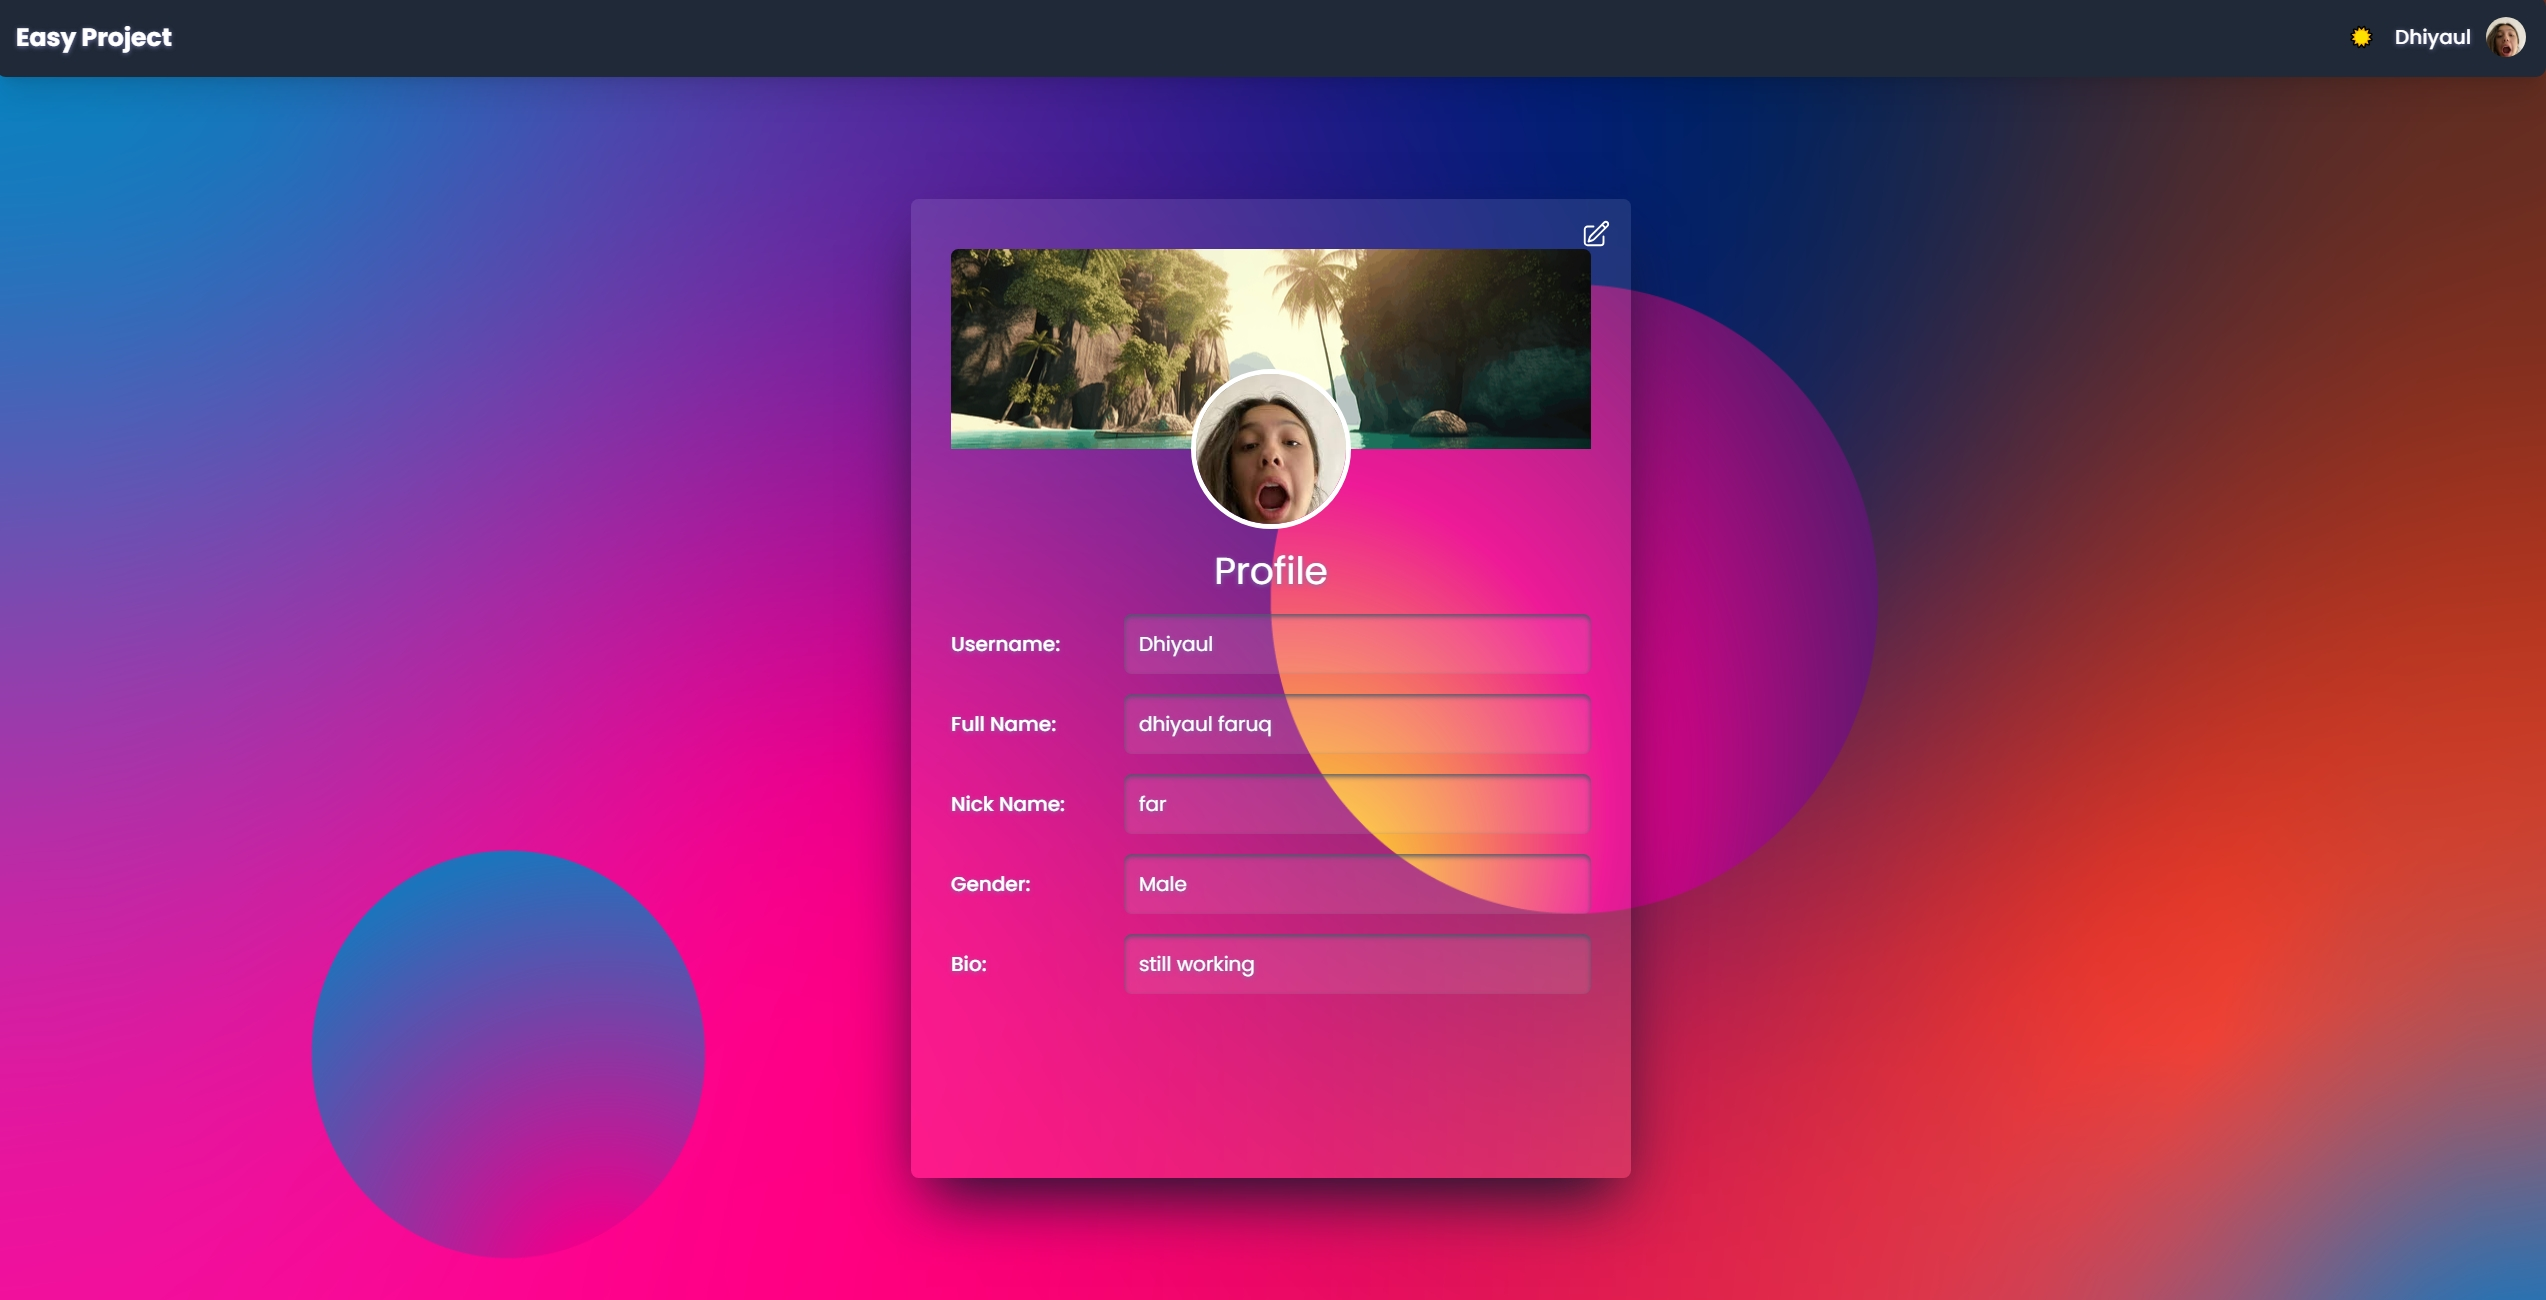
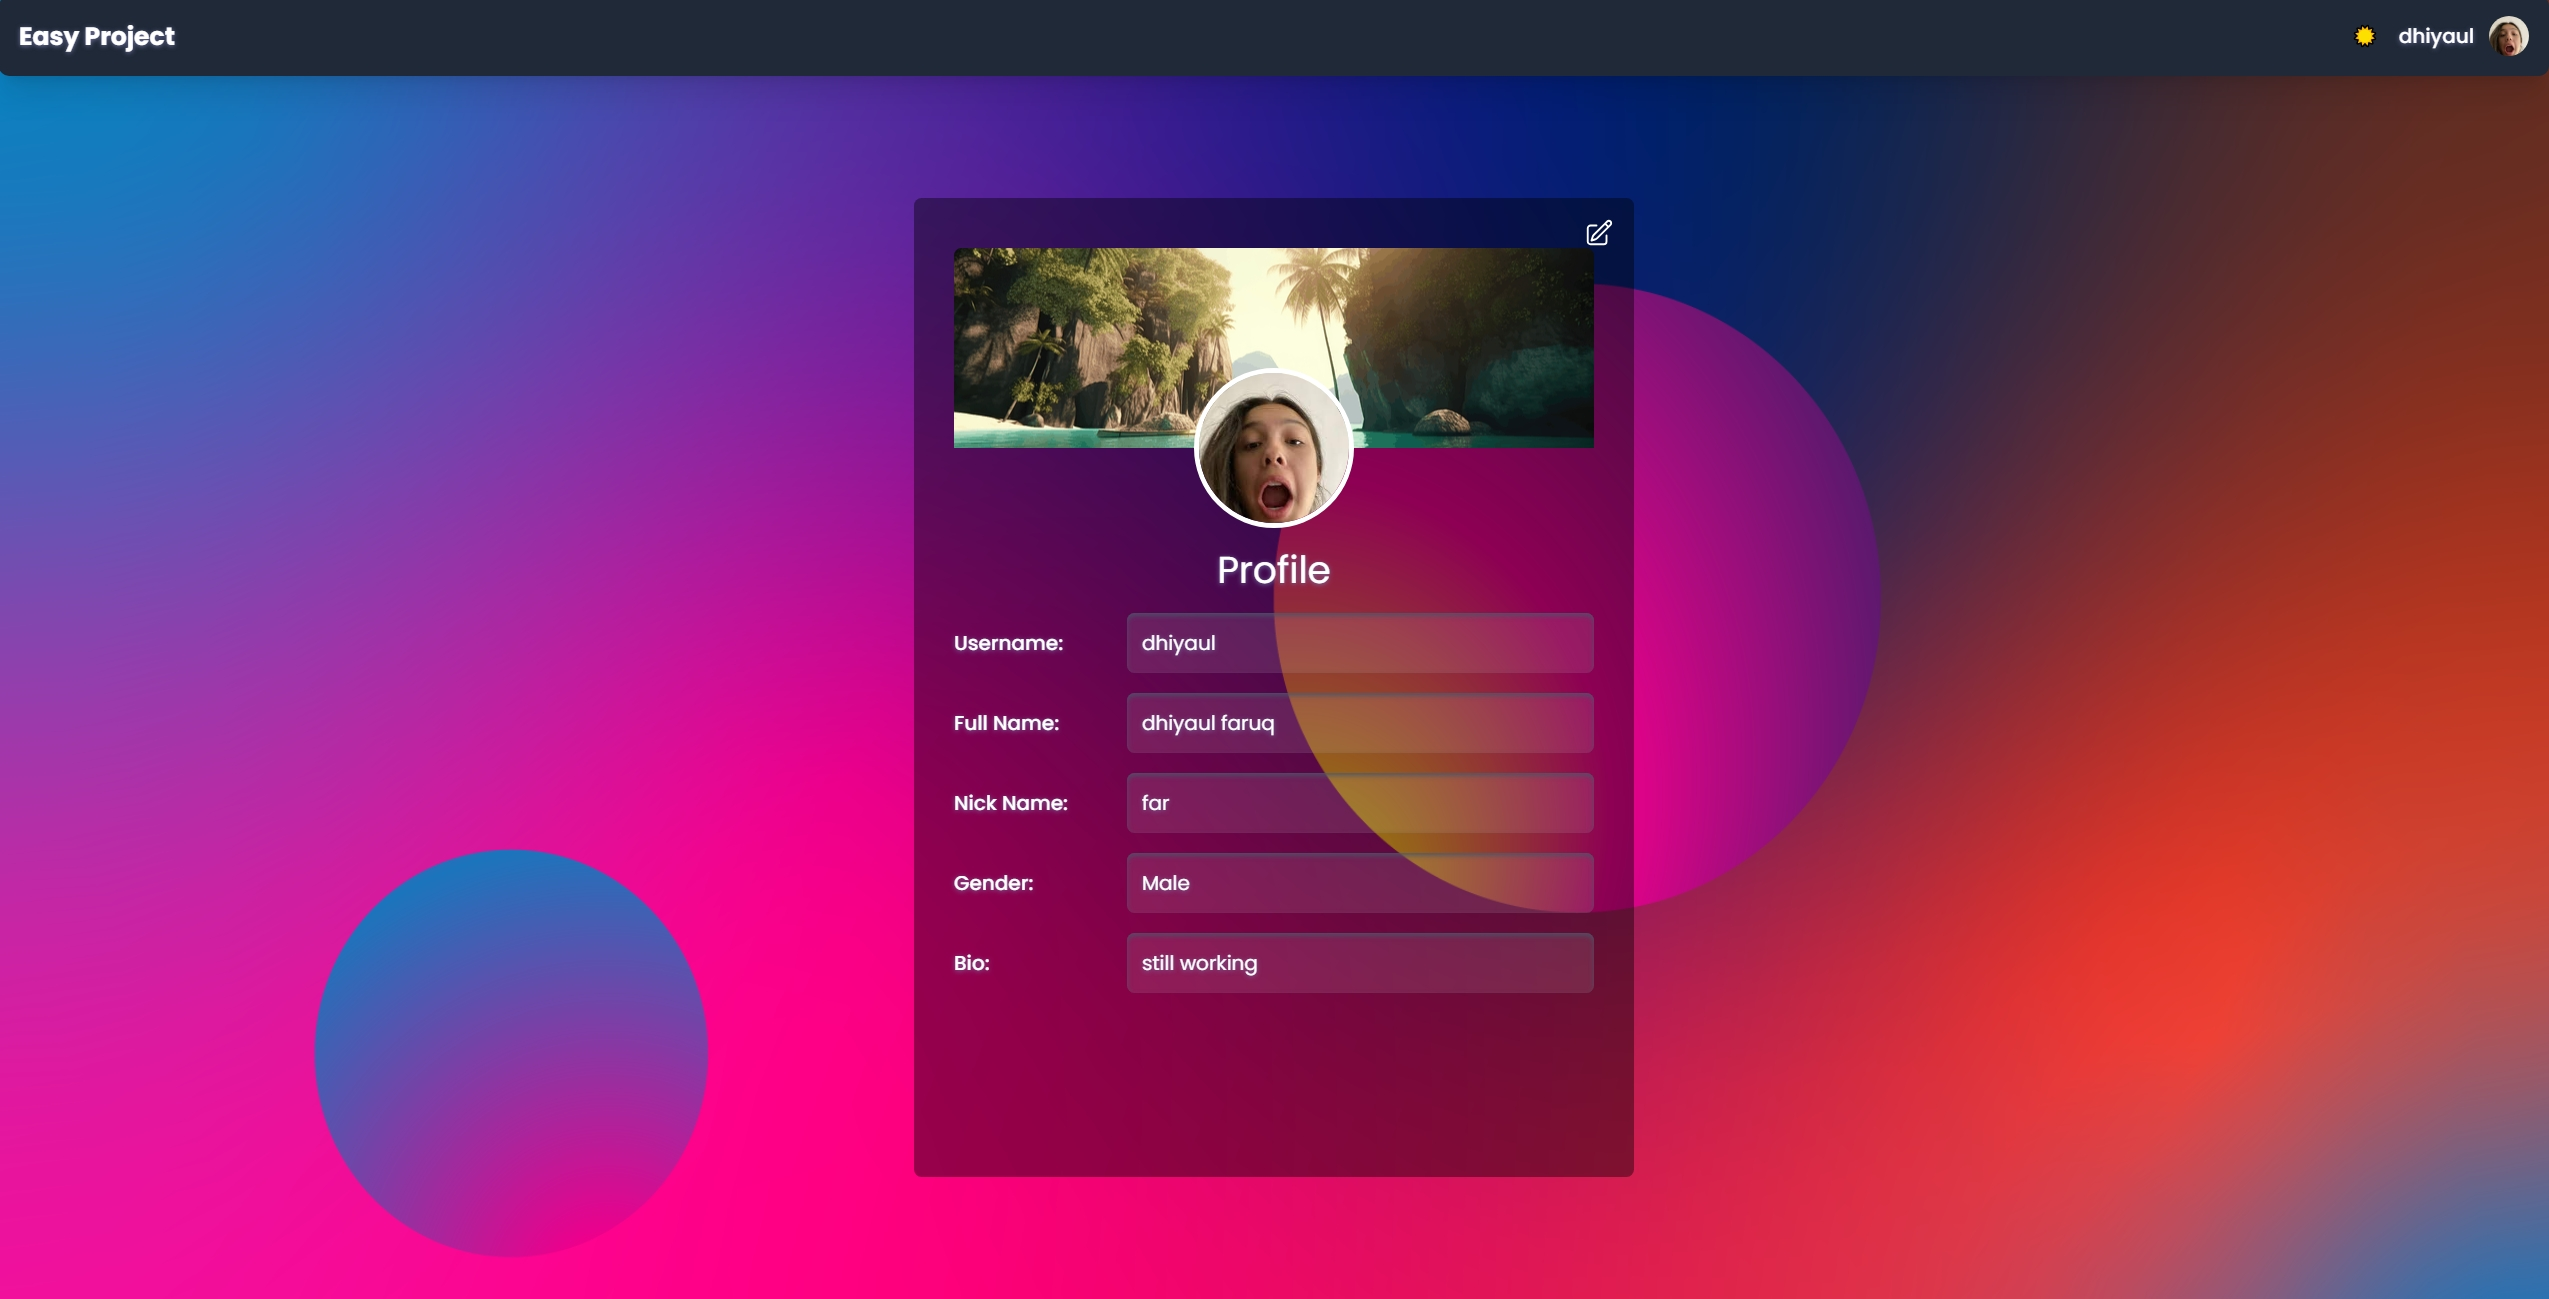
fix: docs (wrong image)

Changed region(s): [[0.3413, 0.154, 0.6516, 0.9546], [0.0, 0.0, 0.0621, 0.0616]]

diff --git a/src/routes/index.lazy.jsx b/src/routes/index.lazy.jsx
@@ -18,6 +18,7 @@ export const Route = createLazyFileRoute("/")({
 function Index() {
   const [boards, setBoards] = useState([]);
   const [selectedBoard, setSelectedBoard] = useState(null);
+  const [searchKeyword, setSearchKeyword] = useState("");
 
   const handleBoardUpdate = (board) => {
     setSelectedBoard(board);
@@ -79,74 +80,118 @@ function Index() {
     };
   }, []);
 
+  //load and stiore search on local storage
+  useEffect(() => {
+    const savedKeyword = localStorage.getItem("searchKeyword");
+    if (savedKeyword) {
+      setSearchKeyword(savedKeyword);
+    }
+  }, []);
+
+  useEffect(() => {
+    localStorage.setItem("searchKeyword", searchKeyword);
+  }, [searchKeyword]);
+
+  const handleSearchChange = (event) => {
+    setSearchKeyword(event.target.value);
+  };
+
+  const filteredBoards = boards.filter(
+    (board) =>
+      board.title &&
+      board.title.toLowerCase().includes(searchKeyword.toLowerCase())
+  );
+  
   return (
     <div
-      className="h-screen flex flex-col bg-light-bg dark:bg-dark-bg bg-cover overflow-y-auto"
-      style={{ textShadow: "0px 1px 2px #77A" }}
-    >
-      <Navbar className="w-full "/>
-      <div className="flex flex-1 flex-col md:flex-row">
-        <Sidebar
-          boards={boards}
-          onSelectBoard={handleBoardUpdate}
-          className="h-full w-full md:w-1/4 "
-        />
-        <main className="flex-1 p-4 flex flex-col">
-          <div className="flex items-center justify-between">
-            <h1 className="text-xl font-bold text-gray-800 dark:text-white text-start md:text-start">
-              Welcome to Easy Project App! lets build cool Project together
-            </h1>
-            <form className="px-2 ml-auto mb-2">
-              <label
-                htmlFor="default-search"
-                className="sr-only text-sm font-medium text-gray-900 dark:text-white"
-              >
-                Search
-              </label>
-              <div className="flex items-center bg-gray-50 border border-gray-300 rounded-lg dark:bg-gray-700 dark:border-gray-600">
-                <div className="flex items-center px-3">
-                  <svg
-                    className="w-4 h-4 text-gray-500 dark:text-gray-400"
-                    aria-hidden="true"
-                    xmlns="http://www.w3.org/2000/svg"
-                    fill="none"
-                    viewBox="0 0 20 20"
-                    aria-label="Search Icon"
-                  >
-                    <path
-                      stroke="currentColor"
-                      strokeLinecap="round"
-                      strokeLinejoin="round"
-                      strokeWidth="2"
-                      d="m19 19-4-4m0-7A7 7 0 1 1 1 8a7 7 0 0 1 14 0Z"
-                    />
-                  </svg>
-                </div>
-                <input
-                  type="search"
-                  id="default-search"
-                  className="flex-1 p-4 text-sm text-gray-900 bg-transparent border-none focus:ring-blue-500 focus:border-blue-500 dark:placeholder-gray-400 dark:text-white dark:focus:ring-blue-500 dark:focus:border-blue-500"
-                  placeholder="Search by keyword"
-                  aria-label="Search"
-                  required
-                />
+    className="h-screen flex flex-col bg-light-bg dark:bg-dark-bg bg-cover overflow-y-auto"
+    style={{ textShadow: "0px 1px 2px #77A" }}
+  >
+    <Navbar className="w-full" />
+    <div className="flex flex-1 flex-col md:flex-row">
+      {/* Sidebar */}
+      <Sidebar
+        boards={boards}
+        onSelectBoard={handleBoardUpdate}
+        className="h-full w-full md:w-1/4"
+      />
+      {/* Main Content */}
+      <main className="flex-1 p-4 flex flex-col">
+        <div className="flex flex-col md:flex-row md:items-center md:justify-between">
+          {/* Welcome Header */}
+          <h1 className="text-xl font-bold text-gray-800 dark:text-white text-start md:text-start">
+            Welcome to Easy Project App! Let's build cool Projects together
+          </h1>
+          {/* Search Form */}
+          <form className="mt-4 md:mt-0 md:ml-auto mb-2 relative">
+            <label
+              htmlFor="default-search"
+              className="sr-only text-sm font-medium text-gray-900 dark:text-white"
+            >
+              Search
+            </label>
+            <div className="flex items-center bg-gray-50 border border-gray-300 rounded-lg dark:bg-gray-700 dark:border-gray-600">
+              <div className="flex items-center px-3">
+                <svg
+                  className="w-4 h-4 text-gray-500 dark:text-gray-400"
+                  aria-hidden="true"
+                  xmlns="http://www.w3.org/2000/svg"
+                  fill="none"
+                  viewBox="0 0 20 20"
+                  aria-label="Search Icon"
+                >
+                  <path
+                    stroke="currentColor"
+                    strokeLinecap="round"
+                    strokeLinejoin="round"
+                    strokeWidth="2"
+                    d="m19 19-4-4m0-7A7 7 0 1 1 1 8a7 7 0 0 1 14 0Z"
+                  />
+                </svg>
               </div>
-            </form>
-          </div>
-
-          {selectedBoard ? (
-            <Board
-              selectedBoard={selectedBoard}
-              onBoardUpdate={handleBoardUpdate}
-            />
-          ) : (
-            <p className="text-gray-800 mt-20 dark:text-white text-center">
-              Silakan pilih board dari sidebar
-            </p>
-          )}
-        </main>
-      </div>
+              <input
+                type="search"
+                id="default-search"
+                className="flex-1 p-4 text-sm text-gray-900 bg-transparent border-none focus:ring-blue-500 focus:border-blue-500 dark:placeholder-gray-400 dark:text-white dark:focus:ring-blue-500 dark:focus:border-blue-500"
+                placeholder="Search by keyword"
+                aria-label="Search"
+                value={searchKeyword}
+                onChange={handleSearchChange}
+                required
+              />
+            </div>
+            {searchKeyword && (
+              <ul className="absolute bg-white border border-gray-300 rounded-lg mt-1 w-full max-h-60 overflow-y-auto dark:bg-gray-700 dark:border-gray-600 z-10">
+                {filteredBoards.map((board) => (
+                  <li
+                    key={board.id}
+                    className="p-2 hover:bg-gray-100 dark:hover:bg-gray-600 dark:text-white cursor-pointer"
+                    onClick={() => handleBoardUpdate(board)}
+                  >
+                    {board.title}
+                  </li>
+                ))}
+              </ul>
+            )}
+          </form>
+        </div>
+  
+        {/* Content */}
+        {selectedBoard ? (
+          <Board
+            selectedBoard={selectedBoard}
+            onBoardUpdate={handleBoardUpdate}
+          />
+        ) : (
+          <p className="text-gray-800 mt-20 dark:text-white text-center">
+            Silakan pilih board dari sidebar
+          </p>
+        )}
+      </main>
     </div>
+  </div>
+  
+
   );
 }
 

diff --git a/src/components/Board/Board.jsx b/src/components/Board/Board.jsx
@@ -93,7 +93,7 @@ export default function Board({ selectedBoard, onBoardUpdate }) {
   };
 
   return (
-    <div className="shadow-2xl shadow-slate-900 text-white bg-clip-padding backdrop-filter bg-white dark:bg-black bg-opacity-10 backdrop-blur-lg dark:bg-opacity-60 dark:shadow-black p-4 flex flex-col transition-transform duration-300 m-2 rounded-md flex-grow h-full">
+    <div className="overflow-x-auto shadow-2xl shadow-slate-900 text-white bg-clip-padding backdrop-filter bg-white dark:bg-black bg-opacity-10 backdrop-blur-lg dark:bg-opacity-60 dark:shadow-black p-4 flex flex-col transition-transform duration-300 m-2 rounded-md flex-grow h-full">
       <div className="flex justify-between items-center">
         <div className="flex gap-2 items-center mb-4">
           <svg
@@ -126,7 +126,7 @@ export default function Board({ selectedBoard, onBoardUpdate }) {
             </h2>
           )}
         </div>
-        <div>
+        <div className="flex gap-2">
           <button onClick={handleEditClick} className="text-blue-500 mr-2">
             {isEditing ? (
               <svg
@@ -181,7 +181,7 @@ export default function Board({ selectedBoard, onBoardUpdate }) {
 
       <hr className="h-px my-2 bg-black border-0" />
 
-      <div className="flex justify-between items-start h-full">
+      <div className="flex justify-between items-start h-full ">
         <div className="flex h-full w-full">
           {columns.map((column) => (
             <Column
@@ -192,24 +192,24 @@ export default function Board({ selectedBoard, onBoardUpdate }) {
           ))}
         </div>
         <button
-          onClick={handleAddColumn}
-          className="py-1 px-2 text-white bg-clip-padding backdrop-filter backdrop-blur-lg bg-opacity-70 bg-green-500 hover:bg-opacity-30 rounded-lg shadow-lg transition-colors duration-300 rounded ml-auto"
-        >
-          <svg
-            xmlns="http://www.w3.org/2000/svg"
-            fill="none"
-            viewBox="0 0 24 24"
-            strokeWidth={1.5}
-            stroke="currentColor"
-            className="size-6"
-          >
-            <path
-              strokeLinecap="round"
-              strokeLinejoin="round"
-              d="M12 4.5v15m7.5-7.5h-15"
-            />
-          </svg>
-        </button>
+  onClick={handleAddColumn}
+  className="flex-grow text-white bg-green-500 hover:bg-green-400 py-2 px-4 rounded-lg shadow-lg text-center"
+>
+  <svg
+    xmlns="http://www.w3.org/2000/svg"
+    fill="none"
+    viewBox="0 0 24 24"
+    strokeWidth={1.5}
+    stroke="currentColor"
+    className="h-6 w-6 mx-auto"
+  >
+    <path
+      strokeLinecap="round"
+      strokeLinejoin="round"
+      d="M12 4.5v15m7.5-7.5h-15"
+    />
+  </svg>
+</button>
       </div>
       <ToastContainer ref={toastContainerRef} />
     </div>

diff --git a/src/routes/Profile.jsx b/src/routes/Profile.jsx
@@ -80,7 +80,9 @@ function Profile() {
     >
       <Navbar className="w-full" />
       <div className="flex flex-1 flex-col md:flex-row justify-center items-center ">
-        <div className="w-full max-w-md md:max-w-lg lg:max-w-xl h-[80%] overflow-y-auto shadow-2xl shadow-slate-900 text-white bg-clip-padding backdrop-filter bg-white dark:bg-dark bg-opacity-10 backdrop-blur-md py-10 px-8 rounded-md relative">
+        <div className="w-full max-w-md md:max-w-lg lg:max-w-xl h-[80%] overflow-y-auto backdrop-filter bg-white dark:bg-black 
+bg-opacity-30 backdrop-blur-lg dark:bg-opacity-40 
+dark:shadow-black py-10 px-8 rounded-md relative">
           <div
             className="h-32 md:h-40 w-full bg-cover bg-center rounded-t-md bg-indigo-500"
             style={{ backgroundImage: `url(${bannerImage})` }}
